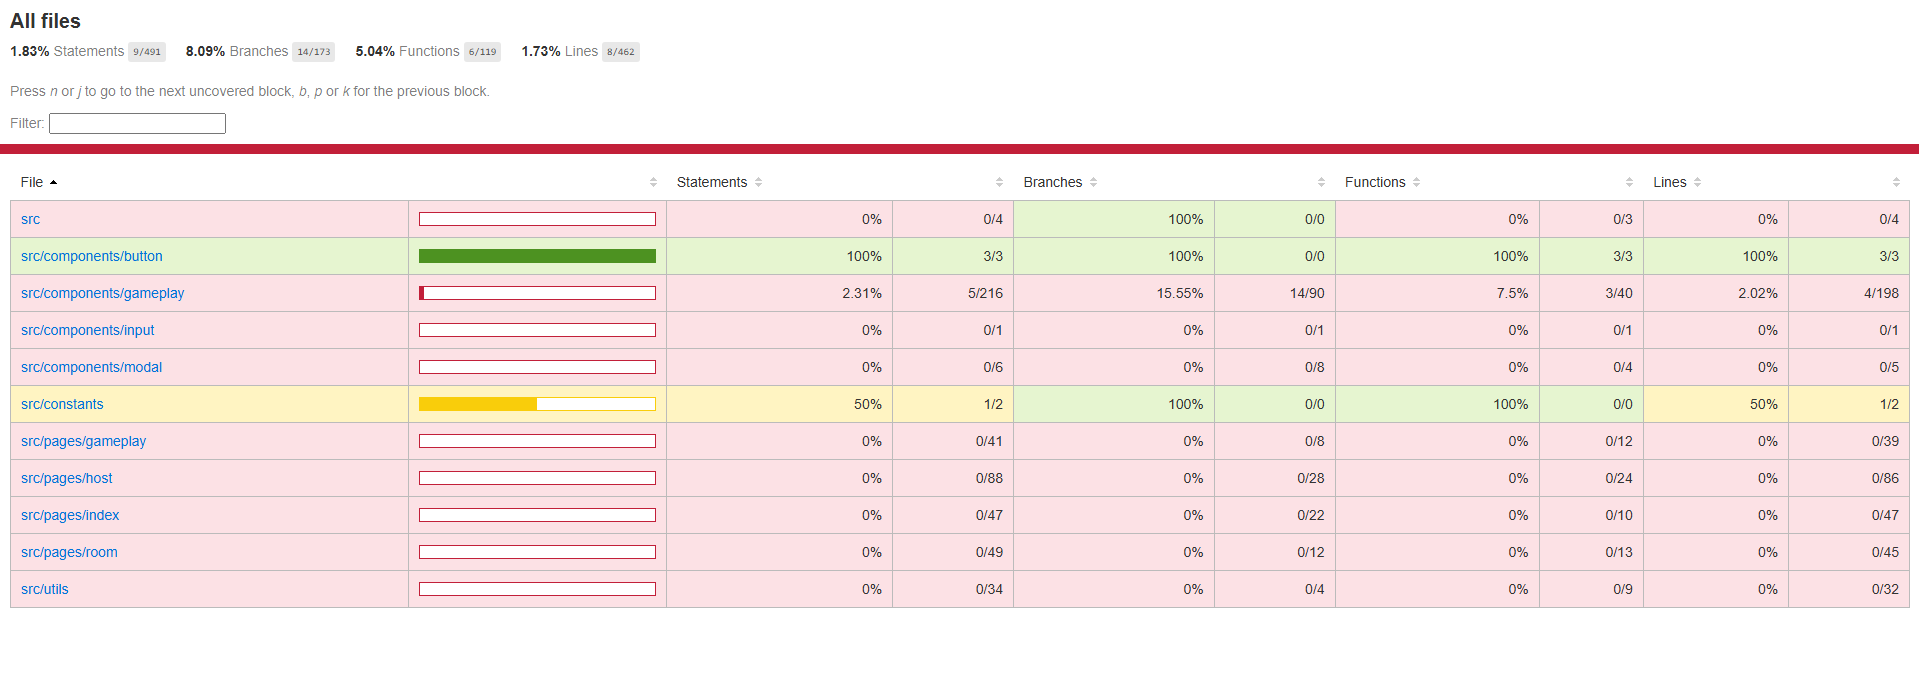
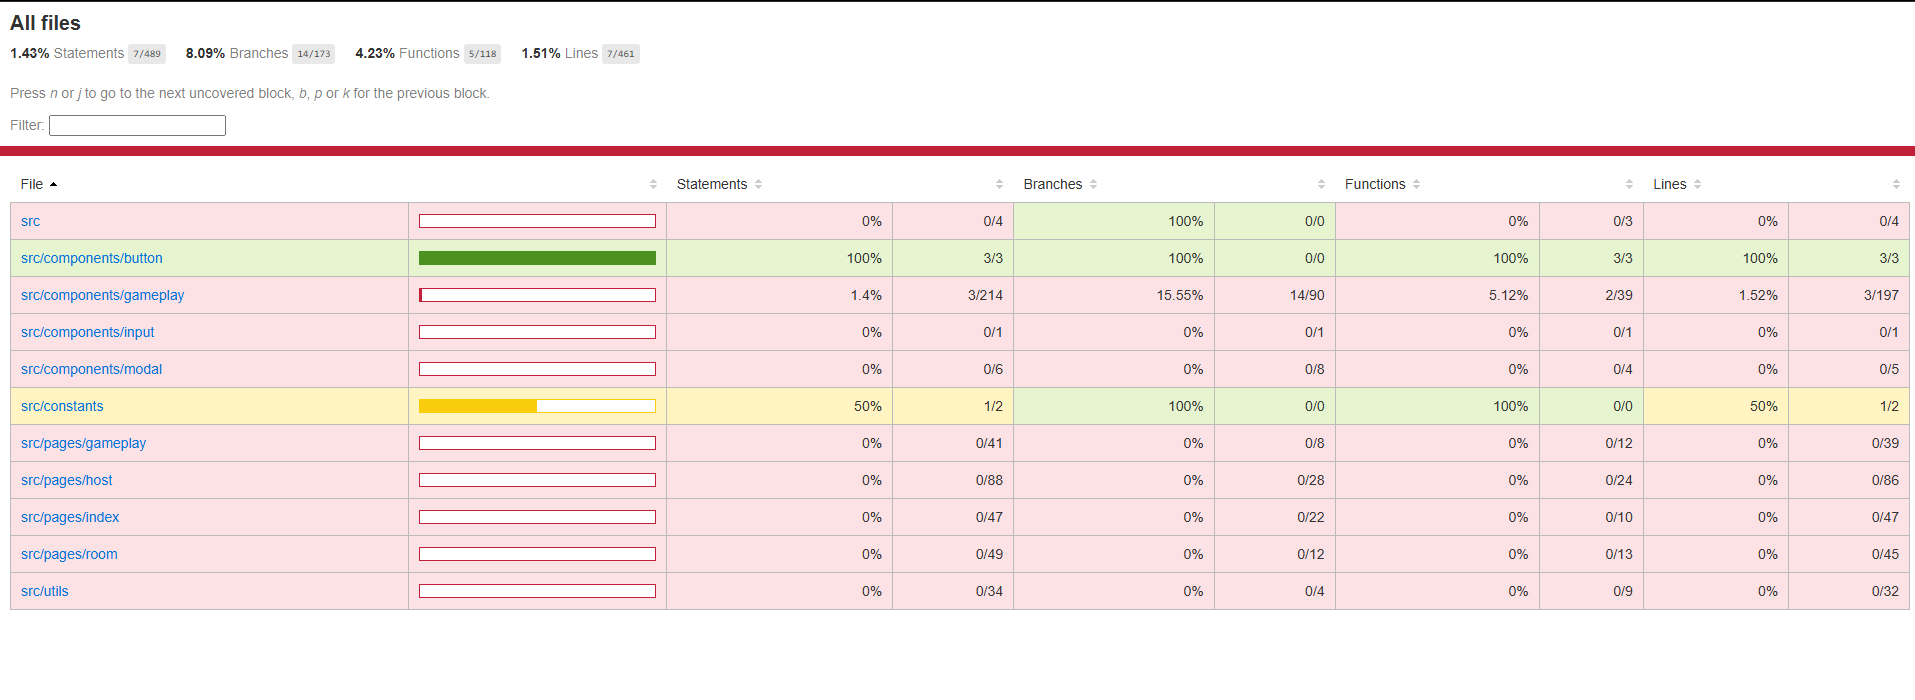
Remove unnecessery lines

Changed region(s): [[0.0, 0.1241, 1.0, 0.8996], [0.0, 0.0, 0.3389, 0.0931]]

diff --git a/draw.it.client/src/components/gameplay/PlayerStatusList.jsx b/draw.it.client/src/components/gameplay/PlayerStatusList.jsx
@@ -2,8 +2,6 @@
 
 const PlayerStatusList = ({ players }) => {
     
-    const sortedPlayers = [...players].sort((a, b) => b.score - a.score);
-    
     return (
         <div className="bg-gray-800 p-4 rounded-xl shadow-lg mb-4 text-white max-h-64 overflow-y-scroll flex-shrink-0">
 
@@ -15,7 +13,7 @@ const PlayerStatusList = ({ players }) => {
                 <p className="text-gray-400">Waiting for players...</p>
             )}
 
-            {sortedPlayers.map((player) => (
+            {players.map((player) => (
                 <div
                     key={player.name}
                     className={`flex justify-between items-center p-2 rounded-md transition-colors text-sm text-white

diff --git a/draw.it.client/tests/components/PlayerList.test.jsx b/draw.it.client/tests/components/PlayerList.test.jsx
@@ -18,16 +18,6 @@ describe('PlayerStatusList', () => {
         expect(screen.getByText('Leaderboard')).toBeInTheDocument();
     });
 
-    it('renders players and sorts them by score descending', () => {
-        render(<PlayerStatusList players={mockPlayers} />);
-
-        const scoreTexts = screen.getAllByText(/pts/i).map(el => el.textContent);
-
-        expect(scoreTexts[0]).toContain('3 pts');
-        expect(scoreTexts[1]).toContain('2 pts');
-        expect(scoreTexts[2]).toContain('1 pts');
-    });
-
     it('displays the correct name and score for each player', () => {
         render(<PlayerStatusList players={mockPlayers} />);
 
